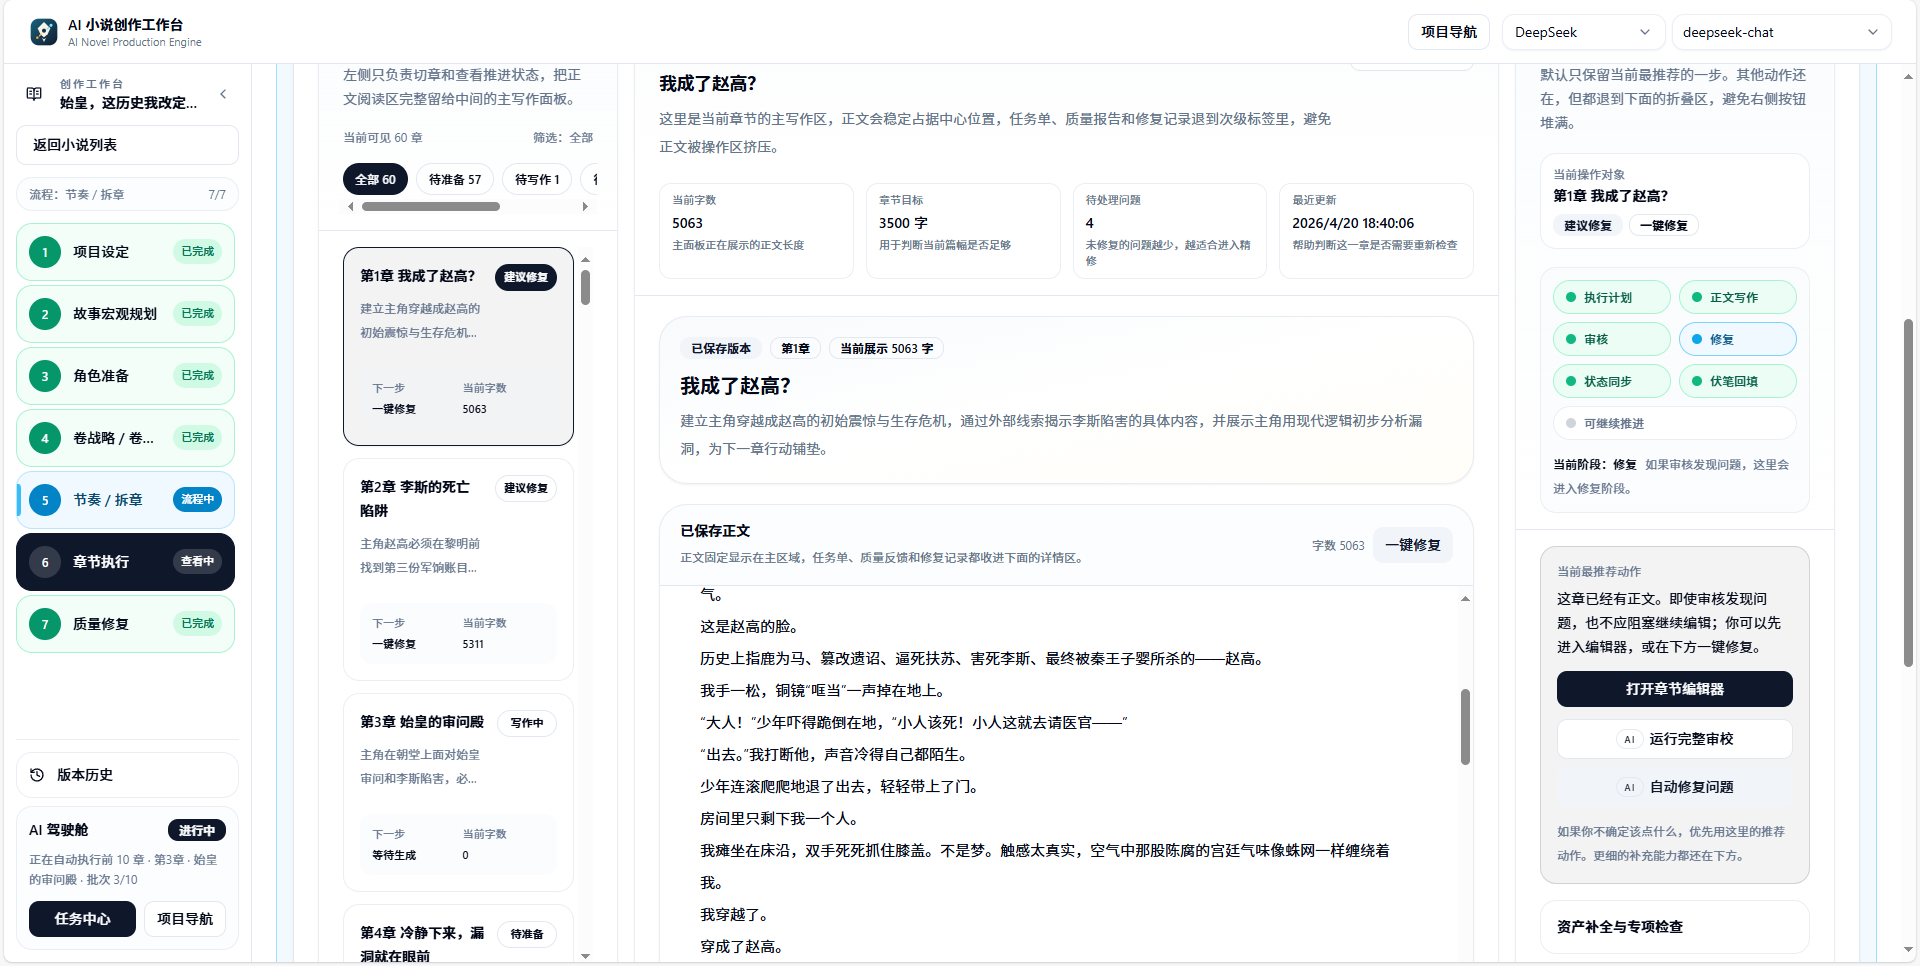
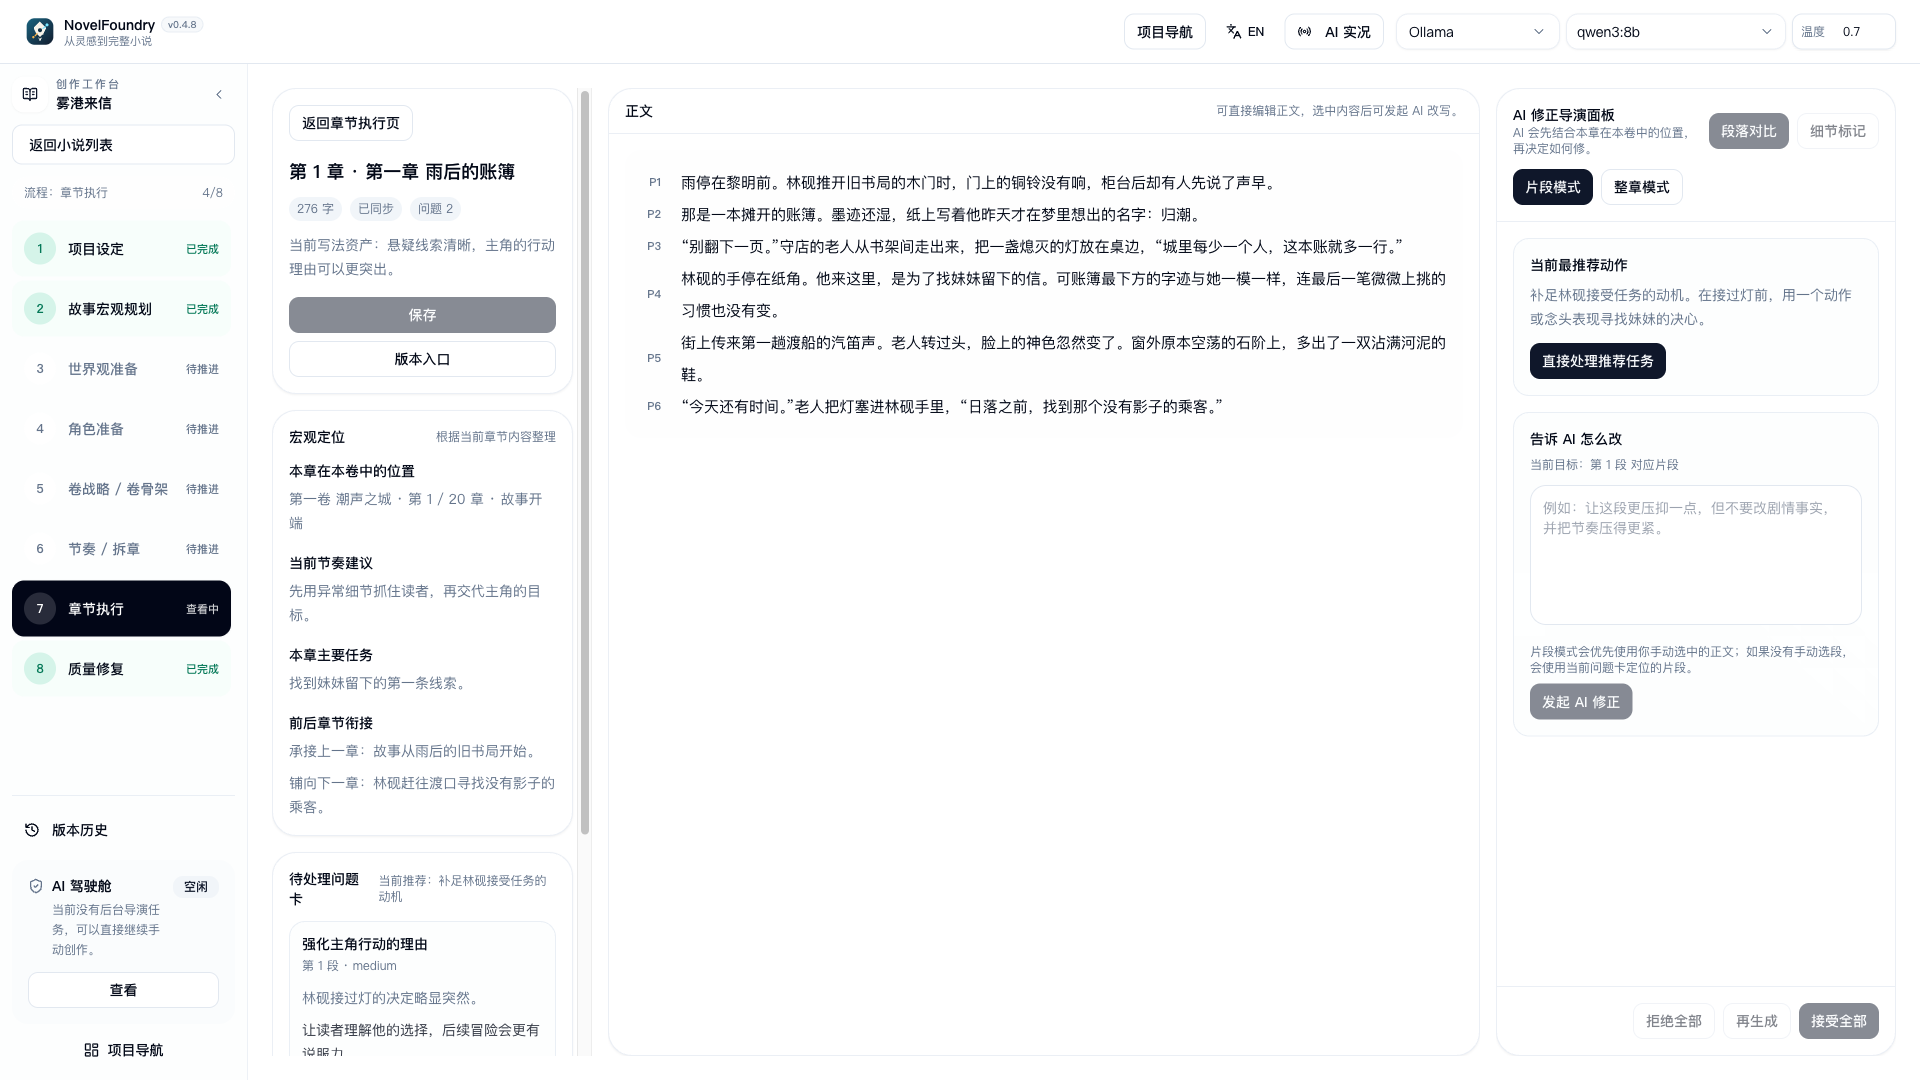
fix: unify NovelFoundry branding and refresh workspace screenshots

diff --git a/site/src/App.tsx b/site/src/App.tsx
@@ -160,11 +160,11 @@ function SiteNav({ page }: { page: "home" | "docs" }) {
   const stars = useGithubStars(publicRepositoryCoordinates?.owner ?? "", publicRepositoryCoordinates?.repo ?? "");
   return (
     <nav className="site-nav" aria-label="主导航">
-      <a className="brand" href={sitePath("/")} aria-label="AI 小说创作工作台首页">
+      <a className="brand" href={sitePath("/")} aria-label="NovelFoundry 首页">
         <span className="brand-mark">
           <img src={appIcon} alt="" aria-hidden="true" />
         </span>
-        <span>AI 小说创作工作台</span>
+        <span>NovelFoundry</span>
       </a>
       <div className="nav-links">
         <a href={docsPath()}>文档</a>
@@ -207,7 +207,7 @@ function HomePage() {
       >
         <div className="hero-scrim" />
         <div className="hero-content">
-          <p className="eyebrow">AI native novel production workspace</p>
+          <p className="eyebrow">NovelFoundry · From idea to a finished novel</p>
           <h1>从一句灵感，到一整本小说</h1>
           <p className="hero-copy">
             自动导演、世界观、角色、拆章、章节执行和质量修复串成一条长篇生产链，帮助新手把想法推进到可持续写作。

diff --git a/client/src/i18n/catalog.ts b/client/src/i18n/catalog.ts
@@ -5,7 +5,7 @@ export const messages = {
   "en-US": {
     ...creationStudioMessages["en-US"],
     ...directorSetupMessages["en-US"],
-    "brand.name": "NovelFoundry", "brand.subtitle": "AI Long-Form Fiction Production System",
+    "brand.name": "NovelFoundry", "brand.subtitle": "From idea to a finished novel",
     "language.switchToEnglish": "Switch to English", "language.switchToChinese": "切换为中文",
     "language.english": "English", "language.chinese": "中文",
     "nav.group.creation": "Creation", "nav.group.assets": "Assets", "nav.group.system": "System",
@@ -60,7 +60,7 @@ export const messages = {
   "zh-CN": {
     ...creationStudioMessages["zh-CN"],
     ...directorSetupMessages["zh-CN"],
-    "brand.name": "NovelFoundry", "brand.subtitle": "AI 长篇小说生产系统",
+    "brand.name": "NovelFoundry", "brand.subtitle": "从灵感到完整小说",
     "language.switchToEnglish": "Switch to English", "language.switchToChinese": "切换为中文",
     "language.english": "English", "language.chinese": "中文",
     "nav.group.creation": "创作", "nav.group.assets": "资产", "nav.group.system": "系统",

diff --git a/desktop/src/main.ts b/desktop/src/main.ts
@@ -229,7 +229,7 @@ function createSplashHtml(): string {
         http-equiv="Content-Security-Policy"
         content="default-src 'none'; style-src 'unsafe-inline'; img-src data:"
       />
-      <title>AI 小说创作工作台</title>
+      <title>NovelFoundry</title>
       <style>
         :root {
           color-scheme: dark;
@@ -302,8 +302,8 @@ function createSplashHtml(): string {
     <body>
       <main class="panel">
         ${brandMark}
-        <div class="title">AI 小说创作工作台</div>
-        <p class="subtitle">正在准备桌面启动壳和打包后的本地写作引擎。</p>
+        <div class="title">NovelFoundry</div>
+        <p class="subtitle">正在打开你的创作空间。</p>
         <div class="meter"><span></span></div>
       </main>
     </body>

diff --git a/site/src/DocsPage.tsx b/site/src/DocsPage.tsx
@@ -188,7 +188,7 @@ export default function DocsPage({ docId }: DocsPageProps) {
           description: activeDoc.description,
           canonicalPath: `/docs/${activeDoc.id}`,
         }
-      : { title: "项目文档", description: "AI 小说创作工作台公开文档：安装、使用方法、自动导演阶段全景、章节执行链、按阶段恢复手册和模块说明。", canonicalPath: "/docs" },
+      : { title: "项目文档", description: "NovelFoundry 公开文档：安装、使用方法、自动导演阶段全景、章节执行链、按阶段恢复手册和模块说明。", canonicalPath: "/docs" },
   );
   const headings = useMemo(() => (markdown ? parseMarkdownHeadings(markdown) : []), [markdown]);
   const markdownComponents = useMemo(

diff --git a/client/src/components/layout/DesktopBootstrapShell.tsx b/client/src/components/layout/DesktopBootstrapShell.tsx
@@ -300,7 +300,7 @@ export default function DesktopBootstrapShell({ snapshot, overlay = false }: Des
                     {resolveStageLabel(snapshot)}
                   </Badge>
                 </div>
-                <h1 className="text-3xl font-semibold tracking-tight">AI 小说创作工作台</h1>
+                <h1 className="text-3xl font-semibold tracking-tight">NovelFoundry</h1>
               </div>
             </div>
 

diff --git a/client/index.html b/client/index.html
@@ -6,7 +6,7 @@
     <link rel="icon" type="image/x-icon" href="/favicon.ico" />
     <link rel="icon" type="image/png" sizes="32x32" href="/favicon-32x32.png" />
     <link rel="apple-touch-icon" sizes="128x128" href="/apple-touch-icon.png" />
-    <title>AI 小说创作工作台 | NovelFoundry</title>
+    <title>NovelFoundry</title>
     <style>
       :root {
         color: #0f172a;

diff --git a/docs/plans/workspace-layout-review.md b/docs/plans/workspace-layout-review.md
@@ -1,0 +1,103 @@
+# Workspace Layout Review
+
+## Scope and evidence
+
+Reviewed on 2026-10-16 against the current React application. These are proposed
+layout changes, not a claim that the redesign is implemented. Browser review
+used fictional project data and intercepted API responses; it did not access a
+writer's database, run a model, or verify task execution. The source components,
+styles, navigation, and editor are the actual application implementation.
+
+The previous direction screenshot showed an obsolete modal. The current
+direction page already uses vertically stacked candidates with optional details
+collapsed. Keep that improvement rather than redesigning around the old image.
+
+## Priority 1: protect the manuscript area
+
+The chapter editor has a 248px workspace rail plus fixed 320px context and
+400px revision panels at the `xl` breakpoint. With navigation expanded, the
+editable element measured 358px at a 1440px viewport and 183px at 1280px.
+At 1024px it measured 679px because the three-column breakpoint was inactive.
+The abrupt loss of writing space penalizes ordinary laptop windows.
+
+Use the available content width to decide how many panels can remain open.
+Keep a comfortable manuscript width before allocating side panels; move context
+and revision into tabs or drawers on medium windows. Preserve access to save,
+version history, source context, review findings, and repair comparison.
+
+Owners: `ChapterEditorShell.tsx`, `ChapterEditorSidebar.tsx`,
+`ChapterEditorDirectorPanel.tsx`, and `NovelWorkspaceRail.tsx`.
+
+The execution page has the same class of risk: a 300px queue and 332px right
+panel beside the global rail. Its smaller-screen queue precedes the manuscript
+without a bounded parent height. Confirm that a long chapter list cannot push
+the selected chapter out of the initial viewport before implementing that slice.
+
+Owner: `ChapterManagementTab.tsx` and `ChapterExecutionQueueCard.tsx`.
+
+## Priority 2: reduce header controls on medium screens
+
+At an 820px viewport the chapter workspace header's brand container measured
+24px while its controls occupied 736px. The writing service and model controls
+remain full width above the mobile-shell breakpoint, leaving the product name
+without useful space. This was clipping, not a demonstrated off-screen button.
+
+Keep the brand, current model summary, and execution status visible. Put provider
+selection and temperature behind a compact model-settings entry below the large
+desktop breakpoint. Preserve the project/workspace navigation switch, language
+choice, keyboard access, and a clear route to unavailable-provider setup.
+
+Owners: `Navbar.tsx`, `LLMSelector.tsx`, and the mobile shell.
+
+## Priority 3: keep the next action and message composer in view
+
+The Creative Hub example at 1920 x 1080 showed a large conversation area while
+the composer continued below the initial viewport. The page header and next
+action add height above a grid sized from a fixed viewport subtraction.
+Allocate the remaining height with a flex layout and keep the composer within
+the conversation pane; long messages should scroll independently.
+
+For chapter execution, put the recommended next action near the chapter title
+instead of requiring authors to discover the third right-panel tab. Keep one
+primary action and put alternative tools in an explicit secondary area. Do not
+hide stop, failed-save, or ownership/conflict notices while simplifying.
+
+Owners: `CreativeHubPage.tsx`, `CreativeHubConversation.tsx`,
+`ChapterManagementTab.tsx`, and `ChapterExecutionActionPanel.tsx`.
+
+## Priority 4: make direction comparisons easier to scan
+
+At 1024px, the first candidate's three core fields each measured about 110px.
+The page combines a 220px action rail with a second three-column grid inside
+the remaining content. Stack the action area and core fields until the actual
+container has enough room. Keep title, premise, main conflict, and the selection
+action visible; retain full settings as optional details.
+
+When showing title scores, explain that they are AI estimates rather than
+measured click-through data. Prefer a recommendation reason over an unexplained
+number. This is a presentation change, not a new quality-ranking mechanism.
+
+Owner: `NovelAutoDirectorCandidateBatches.tsx`.
+
+## Priority 5: reduce navigation and explanatory noise
+
+The global navigation exposes creation, resource libraries, derivative tools,
+and system controls together. Keep the first-novel path prominent and group
+optional libraries without removing their entry points. Use a quieter visual
+hierarchy for inactive stages and show the current stage and next action clearly.
+
+Replace implementation commentary with concrete author instructions. Preserve
+the distinction between saved prose, an unaccepted suggestion, and pending
+quality work; visual simplification must not imply that a failed operation
+succeeded or that a preview has been saved.
+
+## Suggested implementation sequence
+
+1. Make chapter editing and the header usable at 1280px and 820px.
+2. Consolidate scrolling and keep primary actions and the composer visible.
+3. Adjust candidate comparison density and simplify optional navigation.
+
+Use 1920px, 1440px, 1280px, 1024px, and the existing mobile breakpoint when
+reviewing the affected slice. Include long chapters, long titles, many queued
+chapters, pending generation, failed saves, and review conflicts. Maintain
+existing runtime contracts and leave manuscript content untouched.

diff --git a/README.md b/README.md
@@ -116,8 +116,8 @@ develop before the director prepares the book.
 
 </details>
 
-These example projects use the Chinese interface. Layouts and branding may
-vary by build; see [language coverage](#faq).
+These screenshots show the current application with fictional example project
+data in the Chinese interface. See [language coverage](#faq).
 
 ## Your first novel
 
@@ -322,28 +322,11 @@ are retained in [NOTICE](NOTICE).
 
 ## Latest update
 
-### 2026-10-15
+### 2026-10-16
 
-- Chapter editing keeps new text entered while a save is in progress, including
-  when the saved chapter refreshes. Save acknowledgements preserve the editor's
-  undo history.
-- Writing checks verify that quoted problem passages occur in your manuscript;
-  an unsupported quotation asks for another check instead of producing
-  misleading rewrite advice.
-- Chapter follow-up processing accepts unambiguous variations in AI field
-  formatting while preserving complete clues and rejecting uncertain values.
-- Conflicting volume or chapter positions produce a clear correction message
-  before the active plan is written.
-- Saved chapters detect concurrent changes from other tabs or AI actions and
-  keep your local draft for comparison before the next save.
-- Director recovery prevents an earlier execution attempt from saving results
-  after another worker takes over, preserving the rightful run's progress.
-- Custom provider model lists remain available after restart, with the last
-  discovery time shown alongside your manual selections.
-- Manual chapter reviews show source quotes, reasons to preserve a passage and
-  uncertain findings; unsupported advice is kept out of automatic repair.
-- Knowledge documents can record research sources and extract quoted findings.
-  Choose which findings a novel may use, and revoke them when no longer needed;
-  changed or disabled sources are excluded from writing context.
+- NovelFoundry branding is consistent across the browser title, desktop startup
+  screens, and public documentation navigation.
+- Product screenshots show the current chapter editor, story-direction selection,
+  and Creative Hub with fictional example projects.
 
 [Full update history](docs/releases/release-notes.md).

diff --git a/docs/releases/release-notes.md b/docs/releases/release-notes.md
@@ -6,6 +6,13 @@ below; their source evidence is retained in local maintainer archives.
 
 ## History
 
+### 2026-10-16
+
+- NovelFoundry branding is consistent across the browser title, desktop startup
+  screens, and public documentation navigation.
+- Product screenshots show the current chapter editor, story-direction selection,
+  and Creative Hub with fictional example projects.
+
 ### 2026-10-15
 
 - Chapter editing keeps new text entered while a save is in progress, including

diff --git a/docs/plans/README.md b/docs/plans/README.md
@@ -8,6 +8,7 @@ superseded plans with recovery value belong in local maintainer archives.
 ## Current plan
 
 - [NovelFoundry optimization backlog](./optimization-backlog.md)
+- [Workspace layout review and priorities](./workspace-layout-review.md)
 
 Completed or superseded plans are removed from the maintained documentation
 tree. Consult maintainer archives when older evidence is required; no
